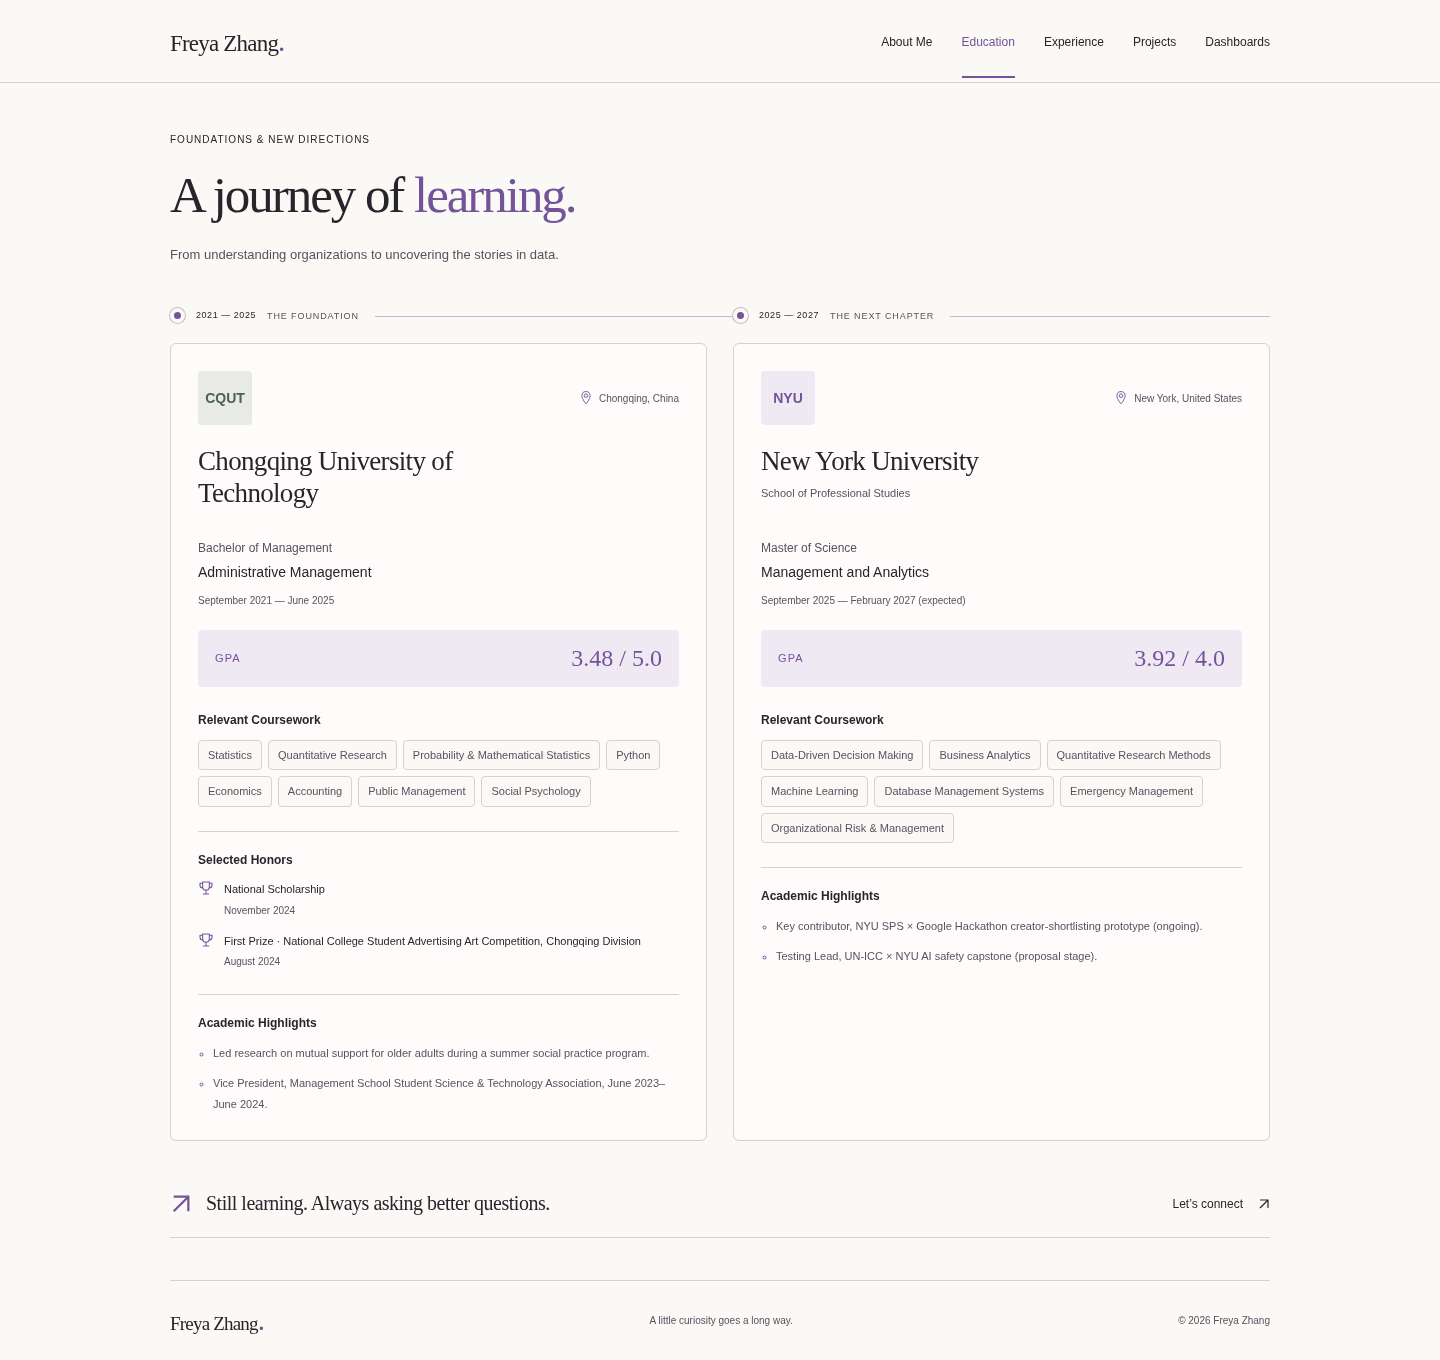
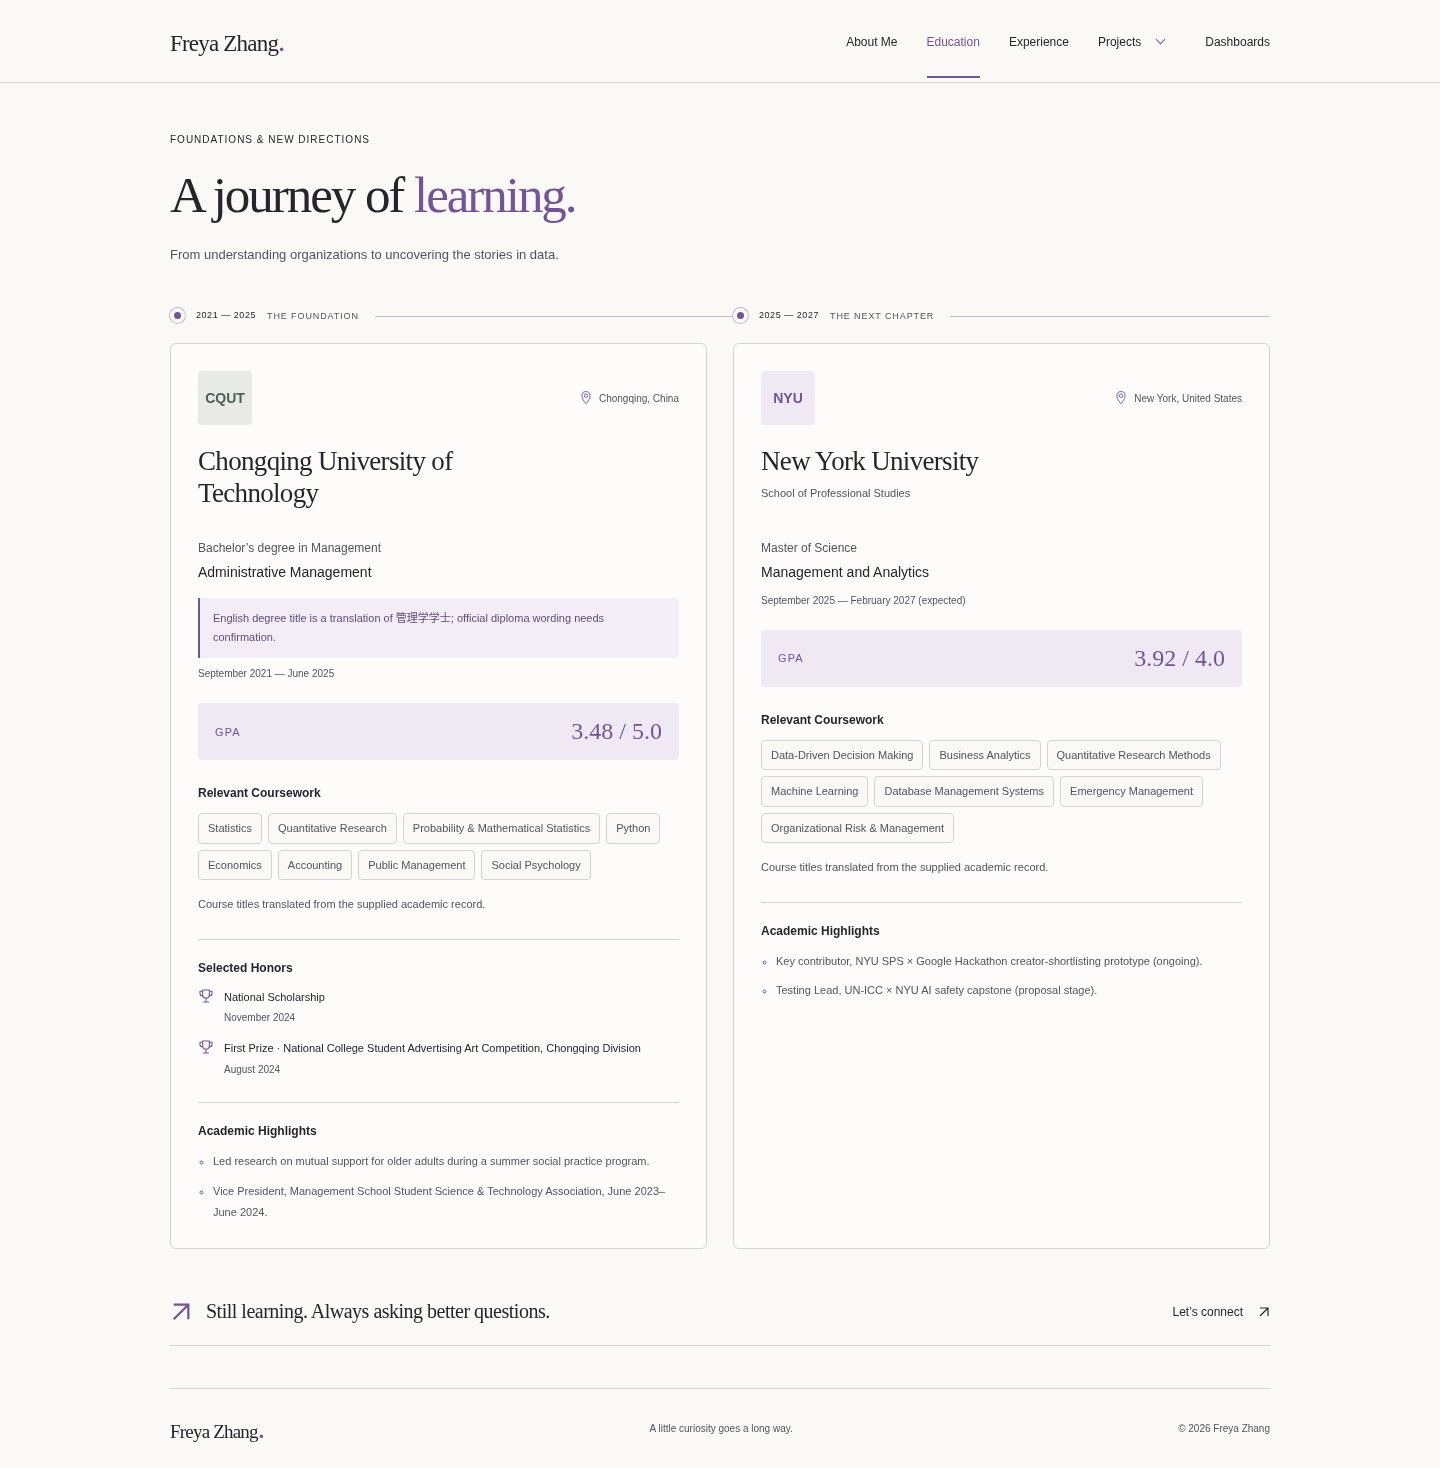
docs: add Phase 2 portfolio review screenshots and verification notes

diff --git a/docs/screenshots/phase-2-review.md b/docs/screenshots/phase-2-review.md
@@ -1,0 +1,65 @@
+# Phase 2 review
+
+Status: implemented and tested locally; awaiting Phase 2 approval. Review screenshots are shared through GitHub. Website source has not been publicly deployed; Pages CMS and deployment workflows have not been configured.
+
+## What changed
+
+- Kept the approved editorial palette, typography, page navigation, two-column hero, and education timeline.
+- Removed the redundant hero Connect button. Resume remains explicitly unavailable. Mobile Resume/contact links now precede the photograph.
+- Audited education against the supplied workbook and accompanying records. Study dates, GPA scales, and listed coursework match. Course names are concise English translations. The official English wording of 管理学学士 is not available; the translated bachelor’s title is explicitly marked for review. Hackathon is ongoing and capstone is proposal-stage work.
+- Built four reverse-chronological internships with desktop keyboard-operable selectors and a mobile select, updating details without navigation. Employer logos are optional.
+- Built 11 projects in exactly three categories (4 Data & Business Analytics, 3 Data Science, 4 Product & AI), without duplicate project records.
+- Projects navigation has a separate main-page link and category toggle; desktop hover, keyboard, click, Escape, outside click, and mobile touch are supported.
+- All project pages are independent, continuous-scroll case studies. Section lists, content, resources, and Scroll Spy are generated from the actual records. Sections are never replaced as tabs.
+- Two dashboard records reference their projects. The same records drive the dashboard gallery, case-study previews and resource links. The Power BI record has a real screenshot fallback; Tableau has an owner-supplied URL and an honestly marked missing preview.
+
+## Structured content
+
+Records live in `src/content/` and are separated from UI components. Categories have stable IDs. Projects support ordering, one category, multiple tags, cover images, role/date/status, flexible ordered sections (paragraphs, bullets, images), and optional resources. Dashboard fields include project ID, platform, preview, screenshot gallery, URL, optional files and verification notes. Experience fields include ordering, dates, contributions, tags and optional logo. All five interest images have editable source, alt text and crop position fields. These are prepared for future visual forms; no CMS functionality is claimed yet.
+
+## Verification performed
+
+- `npm test`: 4 tests passed. Checks cover source bounds, taxonomy, section IDs, relationship integrity, resources and local assets.
+- `npm run build`: 19 static routes built successfully.
+- Chromium checks exercised all 19 routes at widths 1440, 768, 390 and 320: successful responses, one main heading, correct active navigation, no horizontal overflow.
+- Desktop dropdown: hover, keyboard ArrowDown, category-link navigation, Escape and focus return passed. Mobile category toggle/link passed.
+- All four internships selected with the current URL unchanged. Arrow-key selection and mobile selection passed.
+- Scroll Spy: Overview active on open, every section highlights during scrolling, click-to-scroll works, all content remains in the same DOM, and TOC matches the actual sections.
+- Shared Power BI dashboard appears once in the gallery and once in its matching case study, without a duplicate project. Download links and missing-preview states passed.
+- Mobile homepage Resume and contact links precede the photograph; social tap targets are at least 44px high.
+- Every discovered local resource destination returned HTTP 200. The five notebook URLs map to actual files in the linked Data_Project checkout. Creator2, ai-conversational-agent and starshows-mobile repositories accepted read-only Git operations.
+- Browser page-error list was empty. Desktop and mobile screenshots were captured and visually reviewed.
+- Live Tableau verification was attempted and blocked by the environment’s network proxy (403 CONNECT). This is not proof of a broken dashboard. Its owner-supplied URL is labeled as not live-verified.
+- CMS authentication, editing, media upload, automatic rebuilding and public publication are intentionally unrun Phase 3 work.
+
+## Actual visual assets and provenance
+
+Source repository: `zz10965-alt/Data_Project`, inspected at `07118559df51ddf7251b65be1f95cab9b45ec17c`.
+
+- Original dashboard screenshot: `05-advertising-analytics(AB Test)/Ad AB Testing_01.png`, copied unchanged to `public/images/dashboards/advertising-abtest.png`.
+- A 1800px WebP preview is derived only by resizing/compression of that screenshot; the original remains downloadable. No charts or analytical numbers were regenerated.
+- E-commerce cover: embedded output of executed notebook cell 26 (purchase-path chart).
+- Employee attrition cover: embedded output of executed notebook cell 82 (odds-ratio forest plot).
+- EV adoption cover: embedded output of executed notebook cell 33 (regional market-share trends).
+- EV battery cover: embedded output of executed notebook cell 31 (precision–recall curve).
+
+No synthetic personal photos or generated analytical data have been used.
+
+## Missing assets and unverified facts
+
+1. Accessible original lifestyle photo, all five interest photographs, resume PDF, LinkedIn URL, real university/employer logos, and six project cover images are still missing. Neutral placeholders are explicit.
+2. Official English bachelor’s degree title needs an institution-issued English diploma or transcript. The provided record supports 管理学学士; the current English title is a marked translation. Coursework is from supplied owner records, not an independently authenticated transcript.
+3. Tableau screenshot and live availability are unverified because `public.tableau.com` is blocked in this runtime. A supplied screenshot could resolve the preview without remote access.
+4. No public interactive Power BI URL, portfolio slides, downloadable analytical PDFs, Medicare/furniture source repositories, or their visual assets were supplied. Missing buttons are hidden.
+5. The furniture project’s recalled speed-up has no verified benchmark and is omitted. Course-project designation is marked unresolved in the source and is not asserted.
+6. EV battery project narrative is still marked pending owner review; synthetic data and limits are explicit.
+7. AI safety proposal: pilots and completed 54-response dataset are not available. No results are invented; proposed deliverables remain future work.
+8. Creator Shortlisting is ongoing; awards were pending. Its informal three-friend comparison is not reported as a controlled-study benchmark.
+9. StarShow uses scripted/simulated frontend interactions. The conversational agent has no verified performance benchmark.
+10. AI Solutions retention-lift claim lacks a sufficiently specified measurement scope in the supplied report and is omitted. Confidential reports are not linked. The original Chinese company name is preserved for the summer marketing placement because no official English company name was supplied.
+11. EV adoption uses a course-provided dataset with unspecified original source/generation; no official-market or causal policy claim is made.
+12. Source-provided YouTube/GitHub Pages demo URLs were not independently verified here; only verified Git repository resources are shown for those product projects.
+
+## Approval boundary
+
+Stop after Phase 2. Do not configure Pages CMS, add deployment CI, or publish a website until the user explicitly approves Phase 2. Screenshot sharing is already authorized and does not deploy the application. Raw source archives remain outside the website repository.

diff --git a/docs/screenshots/README.md b/docs/screenshots/README.md
@@ -1,0 +1,20 @@
+# Phase 2 review screenshots
+
+The approved visual design is preserved. Final Phase 1 adjustments and Phase 2 are implemented locally. Screenshots are review artifacts, not a publicly deployed website. CMS and deployment remain paused pending Phase 2 approval.
+
+| Page | Desktop | Mobile |
+|---|---|---|
+| About Me | [View](home-desktop.png) | [View](home-mobile.png) |
+| Education | [View](education-desktop.png) | [View](education-mobile.png) |
+| Experience | [View](experience-desktop.png) | [View](experience-mobile.png) |
+| All Projects | [View](projects-desktop.png) | [View](projects-mobile.png) |
+| Project case study | [View](project-detail-desktop.png) | [View](project-detail-mobile.png) |
+| Dashboards | [View](dashboards-desktop.png) | [View](dashboards-mobile.png) |
+
+[Projects dropdown](projects-dropdown-desktop.png) · [Source review, missing assets and verification details](phase-2-review.md)
+
+Use GitHub’s **Download raw file** button to download any full-resolution screenshot.
+
+Checks passed: four content/integrity tests, 19-route production build, and Chromium interaction checks at desktop, tablet, and mobile widths down to 320px.
+
+Remaining: original personal photos, resume, LinkedIn URL, logos and some project/report assets; official English bachelor’s degree wording; pending owner review of the synthetic-data battery case study; and Tableau preview/live-link verification (blocked by the cloud network policy). No unsupported performance figures or completed proposal results are invented.
